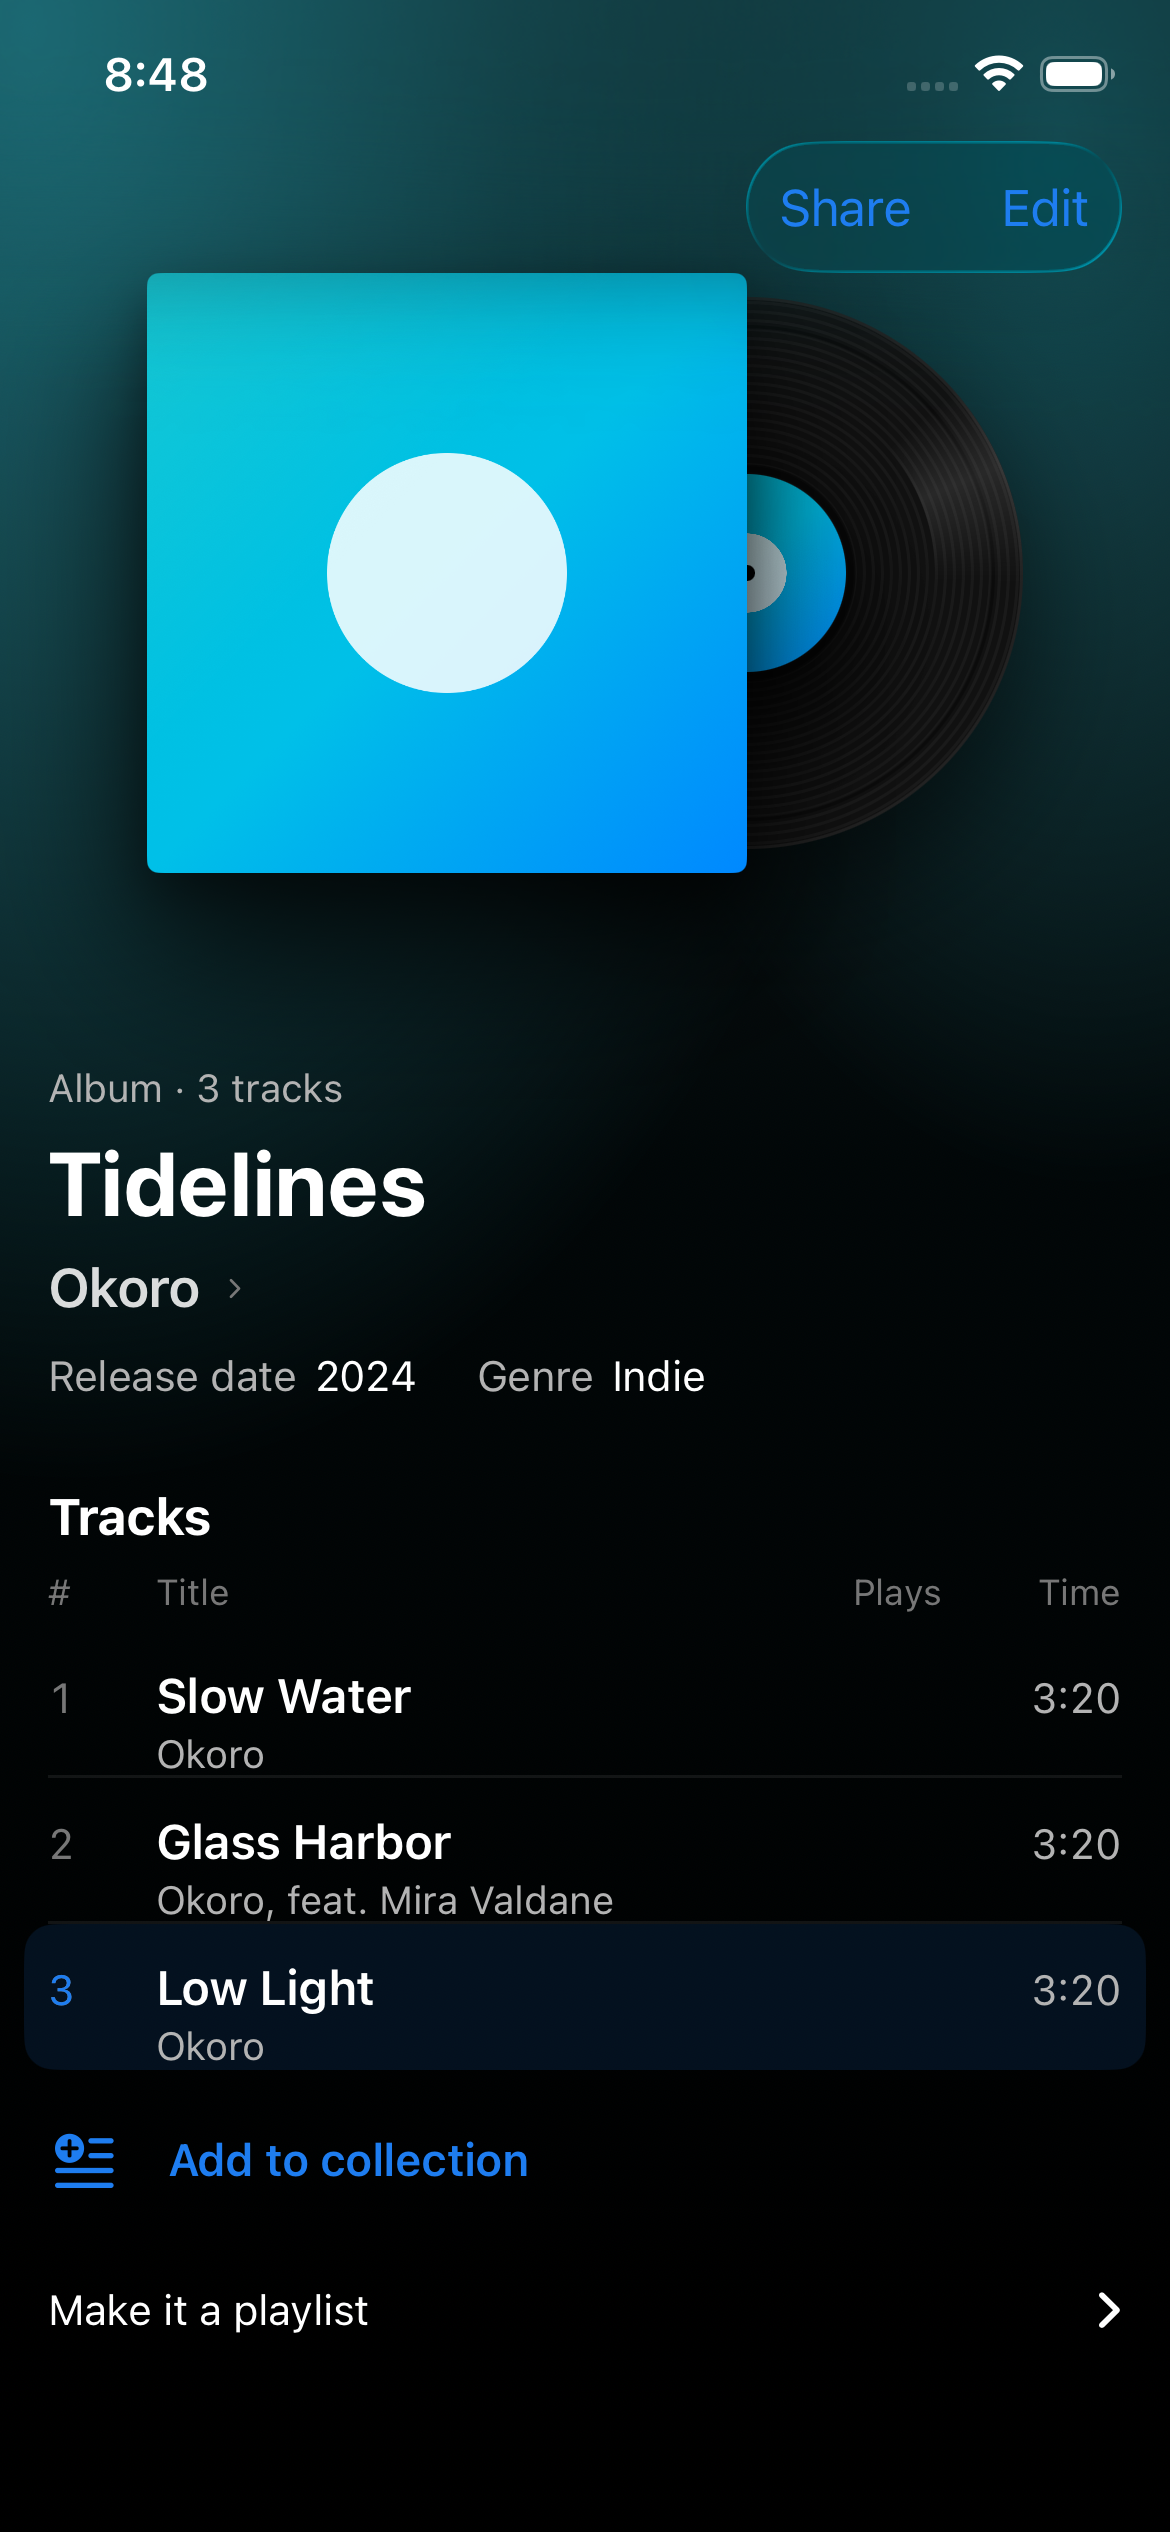
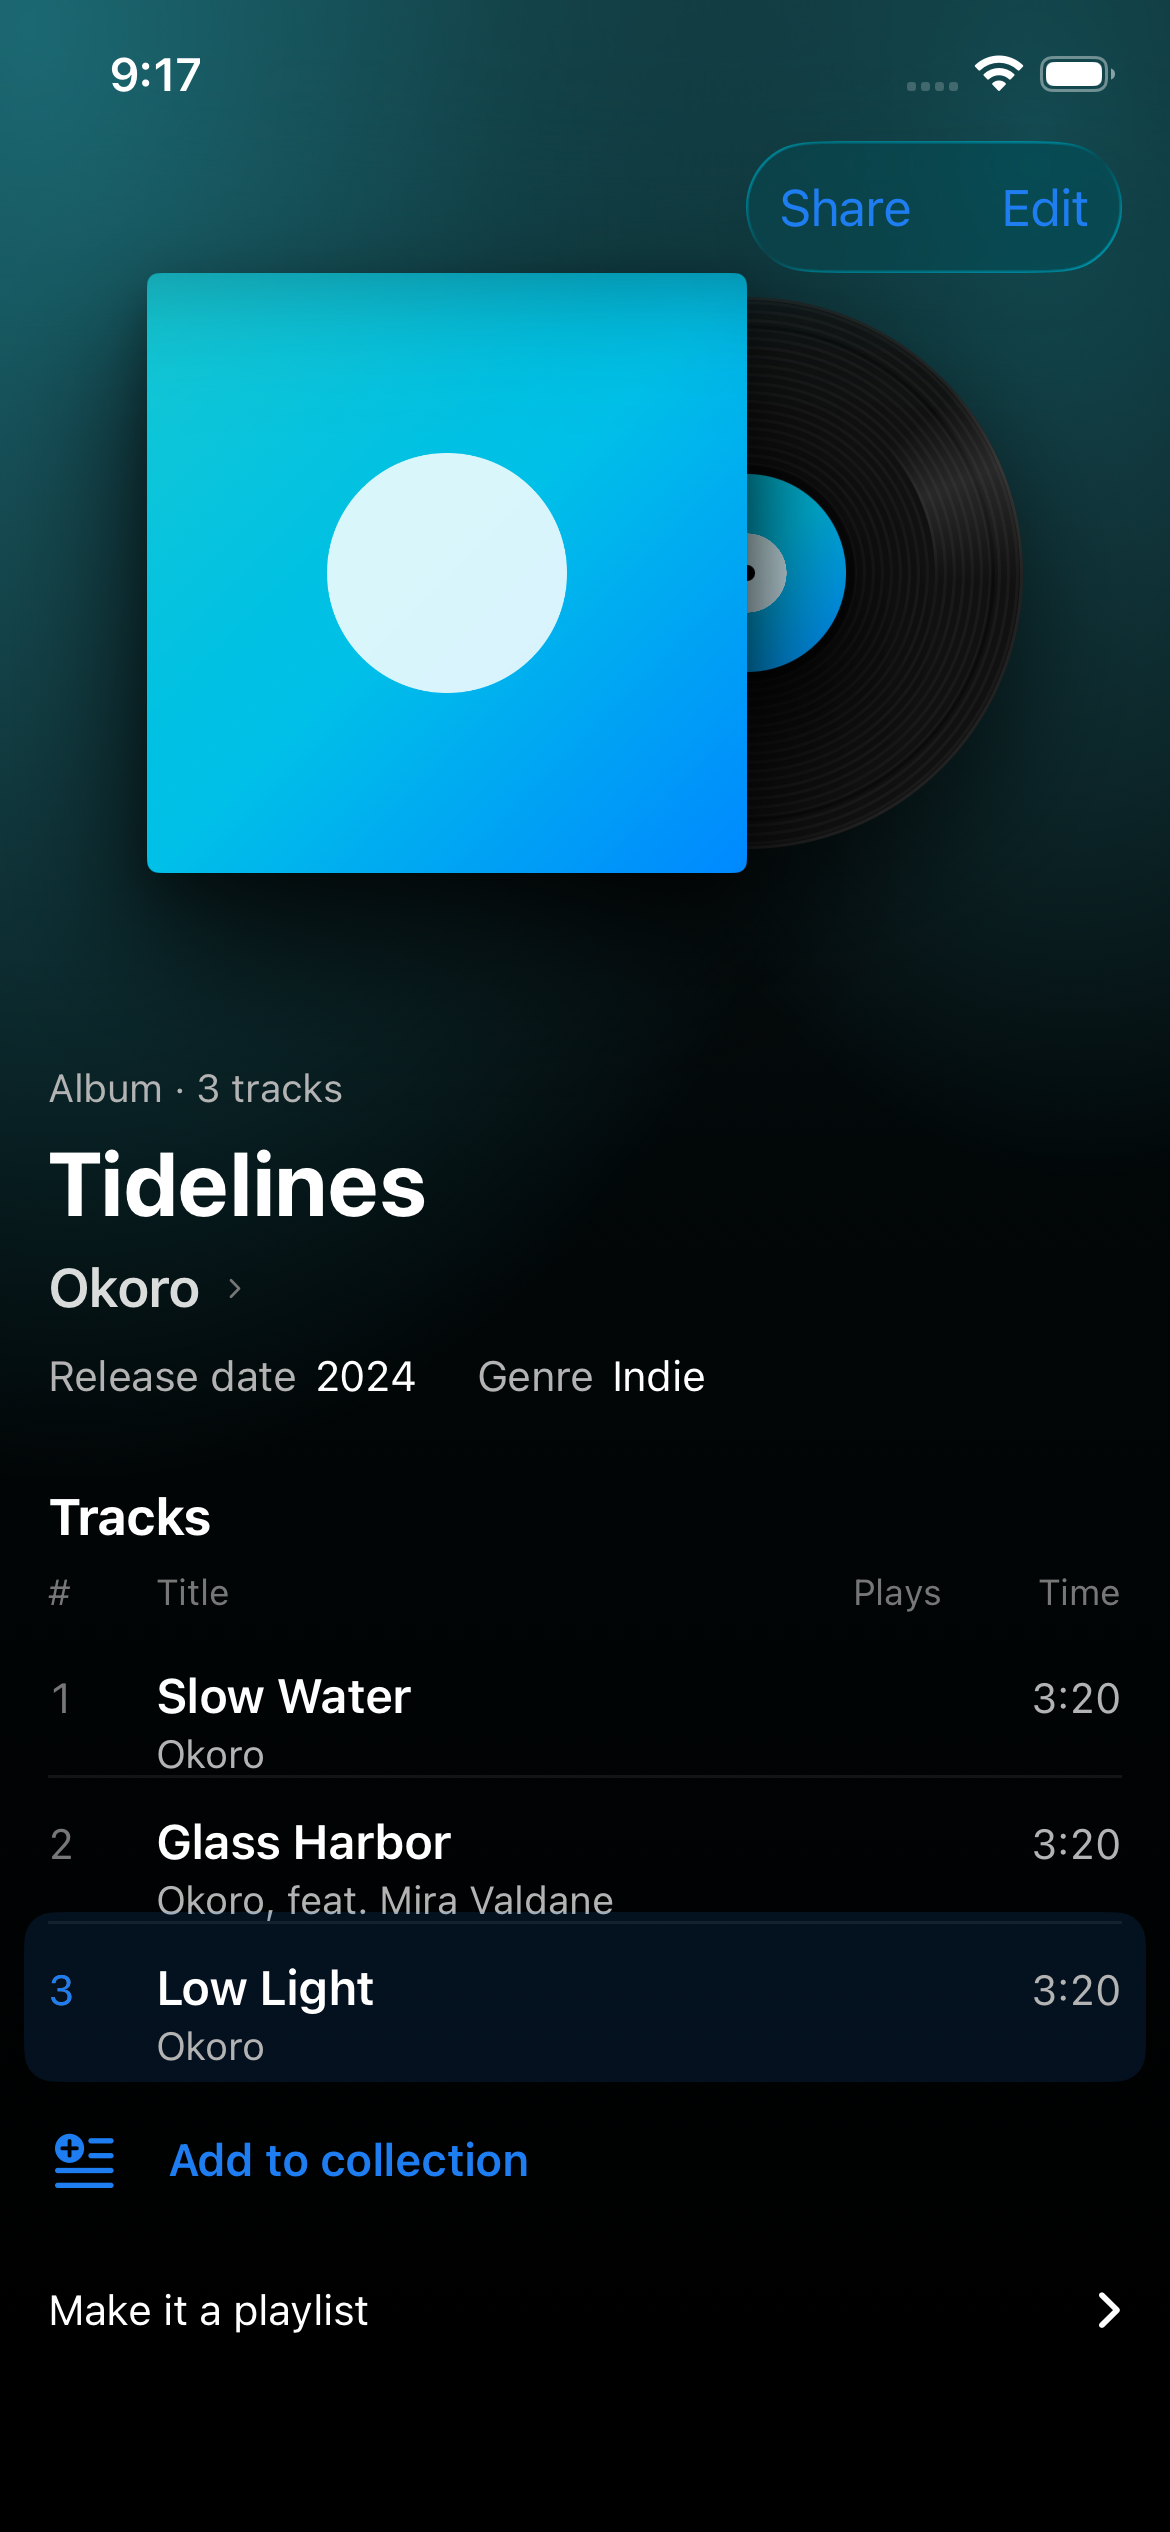
iPhone: track highlight review fixes: cancel-safe, symmetric wash, long and large-text gallery cases, real tests (#362)
Claude-Session: https://claude.ai/code/session_012sA8wJjj2BFG5nWg5W6h5h

diff --git a/apps/ios/Locally/Views/Components/ComponentGallery.swift b/apps/ios/Locally/Views/Components/ComponentGallery.swift
@@ -35,7 +35,7 @@ struct ComponentGallery: View {
         "share-sheet", "share-sheet-link", "share-sheet-result", "share-sheet-signed-out", "share-sheet-large-text",
         "devices-tray-friends", "devices-tray-friends-large-text", "shared-by-you", "shared-by-you-large-text", "release-share-blocked",
         // #362: a release opened from one of its tracks, the row mid-highlight.
-        "release-track-highlight", "stats-open-track",
+        "release-track-highlight", "release-track-highlight-long", "release-track-highlight-ax", "release-track-plain-long", "stats-open-track",
         // #350: collections in List view over seeded sample collections.
         "collections-library", "collections-screen", "collections-queue", "collections-edit", "collections-empty", "collections-queue-ax", "collections-add", "collections-playing", "collections-add-failed", "collections-wont-play", "collections-playlist-guide", "collections-none-here",
         // #352: the record player on the Collections screen, over seeded collections and a player on fakes.
@@ -59,7 +59,7 @@ struct ComponentGallery: View {
 
     /// The #160 screens draw their own backdrop.
     private var drawsOwnBackdrop: Bool {
-        name.hasPrefix("collections-") || name.hasPrefix("player-") || name.hasPrefix("stats-") || name.hasPrefix("icons-") || name.hasPrefix("devices-") || name.hasPrefix("share") || ["studio-backdrop", "settings-signed-in", "settings-signed-out", "settings-code-sent", "settings-scrolled", "root-banner", "release-tracks", "controls", "paywall", "onboarding", "library-empty", "crop-sheet", "release-featuring-view", "release-featuring-edit", "featuring-fields-ax", "artists-view", "artist-page", "artist-page-featured", "artist-page-bottom", "library-sort-menu", "release-links", "release-date-edit", "release-date-view", "release-date-sheet", "release-date-invalid", "release-date-xxxl", "release-date-ax", "release-date-ax5", "release-date-narrow", "release-date-save", "release-share-blocked", "release-track-highlight"].contains(name)
+        name.hasPrefix("collections-") || name.hasPrefix("player-") || name.hasPrefix("stats-") || name.hasPrefix("icons-") || name.hasPrefix("devices-") || name.hasPrefix("share") || ["studio-backdrop", "settings-signed-in", "settings-signed-out", "settings-code-sent", "settings-scrolled", "root-banner", "release-tracks", "controls", "paywall", "onboarding", "library-empty", "crop-sheet", "release-featuring-view", "release-featuring-edit", "featuring-fields-ax", "artists-view", "artist-page", "artist-page-featured", "artist-page-bottom", "library-sort-menu", "release-links", "release-date-edit", "release-date-view", "release-date-sheet", "release-date-invalid", "release-date-xxxl", "release-date-ax", "release-date-ax5", "release-date-narrow", "release-date-save", "release-share-blocked", "release-track-highlight", "release-track-highlight-long", "release-track-highlight-ax", "release-track-plain-long"].contains(name)
     }
 
     var body: some View {
@@ -330,6 +330,12 @@ struct ComponentGallery: View {
             IconsGallery.devices(pending: 0, open: true, friends: 3).dynamicTypeSize(.accessibility3)
         case "release-track-highlight":
             IconsGallery.highlightedRelease()
+        case "release-track-highlight-long":
+            IconsGallery.highlightedRelease(tracks: 12, track: 9)
+        case "release-track-highlight-ax":
+            IconsGallery.highlightedRelease(tracks: 12, track: 9).dynamicTypeSize(.accessibility3)
+        case "release-track-plain-long":
+            IconsGallery.highlightedRelease(tracks: 12, track: nil)
         case "stats-open-track":
             IconsGallery.environment(StatsGallery.page(.week), IconsGallery.container())
         case "release-share-blocked":
@@ -1141,12 +1147,18 @@ extension IconsGallery {
         environment(NavigationStack { ArtistPageView(route: ArtistRoute(key: ArtistNames.artistKey(name))) }, artistsContainer())
     }
 
-    /// Tidelines opened from its third track (#362), the wash held at full strength.
-    static func highlightedRelease() -> some View {
+    /// Tidelines opened from one of its tracks (#362), the wash held at full strength. `tracks` pads it to a
+    /// long release so the scroll shows; a nil `track` is a plain push with no highlight.
+    static func highlightedRelease(tracks: Int? = nil, track: Int? = 2) -> some View {
         let container = artistsContainer()
-        let release = artistsLibrarySeed.releases.first { $0.title == "Tidelines" } ?? StatsGallery.releases[0]
-        let track = release.tracks.indices.contains(2) ? release.tracks[2] : release.tracks[0]
-        return environment(NavigationStack { ReleaseDetailView(release: release, highlightTrackID: track.id, holdsHighlight: true) }, container)
+        var release = artistsLibrarySeed.releases.first { $0.title == "Tidelines" } ?? StatsGallery.releases[0]
+        if let tracks, release.tracks.count < tracks {
+            for n in release.tracks.count..<tracks {
+                release.tracks.append(Track(id: UUID(), title: "Interlude \(n + 1)", trackNumber: n + 1, filePath: "x\(n).mp3", originalName: "x\(n).mp3", durationSec: 200))
+            }
+        }
+        let id = track.map { release.tracks.indices.contains($0) ? release.tracks[$0].id : release.tracks[0].id }
+        return environment(NavigationStack { ReleaseDetailView(release: release, highlightTrackID: id, holdsHighlight: true) }, container)
     }
 
     /// The album Tidelines in view mode: a track featuring Mira Valdane, linked.

diff --git a/apps/ios/LocallyUITests/TrackHighlightUITests.swift b/apps/ios/LocallyUITests/TrackHighlightUITests.swift
@@ -1,20 +1,53 @@
 import XCTest
 
-/// Opening a Stats track lands on its release with that track's row on screen (#362). Runs over the
-/// component gallery's sample plays (DEBUG builds), so it needs no account, files or network.
+/// Opening a release from a track lands on that row, washed once; any other push shows no wash (#362).
+/// Runs over the component gallery's sample releases (DEBUG builds), so it needs no account, files or network.
 final class TrackHighlightUITests: XCTestCase {
-    func testStatsTrackOpensItsReleaseWithThatRowOnScreen() {
+    private func launch(_ name: String) -> XCUIApplication {
         let app = XCUIApplication()
-        app.launchArguments = ["-componentGallery", "stats-open-track"]
+        app.launchArguments = ["-componentGallery", name]
         app.launch()
+        return app
+    }
+
+    private func row(_ number: Int, in app: XCUIApplication) -> XCUIElement {
+        app.descendants(matching: .any)["track-row-\(number)"].firstMatch
+    }
+
+    func testStatsTrackOpensItsReleaseWithThatRowOnScreen() {
+        let app = launch("stats-open-track")
         // The fan's lead tile is the track "Night Bus to Nowhere", the first track of its release.
-        let row = app.buttons.matching(NSPredicate(format: "label CONTAINS %@", "Night Bus to Nowhere")).firstMatch
-        XCTAssertTrue(row.waitForExistence(timeout: 15), "no Stats row")
-        row.tap()
-        let trackRow = app.descendants(matching: .any)["track-row-1"].firstMatch
+        let tile = app.buttons.matching(NSPredicate(format: "label CONTAINS %@", "Night Bus to Nowhere")).firstMatch
+        XCTAssertTrue(tile.waitForExistence(timeout: 15), "no Stats row")
+        tile.tap()
+        let trackRow = row(1, in: app)
         // The fan lifts a sleeve on the first tap and opens it on the second.
-        if !trackRow.waitForExistence(timeout: 4) { row.tap() }
+        if !trackRow.waitForExistence(timeout: 4) { tile.tap() }
         XCTAssertTrue(trackRow.waitForExistence(timeout: 10), "release page shows no track-row-1")
         XCTAssertTrue(trackRow.isHittable, "track-row-1 is not on screen")
+    }
+
+    /// The same 12-track release twice: pushed plainly, track 10 is below the fold and unwashed; opened
+    /// from track 10, the page scrolls it into view and marks it highlighted.
+    func testAPlainPushLeavesADeepTrackOffScreenAndUnwashed() {
+        let app = launch("release-track-plain-long")
+        let deep = row(10, in: app)
+        // The list is lazy: a row below the fold is not in the tree at all, or is there but off screen.
+        XCTAssertTrue(row(1, in: app).waitForExistence(timeout: 15), "release page shows no track-row-1")
+        sleep(2)
+        XCTAssertFalse(deep.exists && deep.isHittable, "track-row-10 should be below the fold")
+        XCTAssertFalse(app.descendants(matching: .any).matching(NSPredicate(format: "value == %@", "highlighted")).firstMatch.exists)
+    }
+
+    func testOpeningFromADeepTrackScrollsItIntoViewAndHighlightsIt() {
+        let app = launch("release-track-highlight-long")
+        let deep = row(10, in: app)
+        XCTAssertTrue(deep.waitForExistence(timeout: 15), "no track-row-10")
+        let hittable = NSPredicate(format: "isHittable == true")
+        expectation(for: hittable, evaluatedWith: deep)
+        waitForExpectations(timeout: 10)
+        let washed = NSPredicate(format: "value == %@", "highlighted")
+        expectation(for: washed, evaluatedWith: deep)
+        waitForExpectations(timeout: 10)
     }
 }

diff --git a/apps/ios/Locally/Views/Library/ReleaseDetailView.swift b/apps/ios/Locally/Views/Library/ReleaseDetailView.swift
@@ -12,6 +12,7 @@ struct ReleaseDetailView: View {
     @Environment(\.playback) private var playback
     @Environment(\.dismiss) private var dismiss
     @Environment(\.accessibilityReduceMotion) private var reduceMotion
+    @Environment(\.dynamicTypeSize) private var dynamicTypeSize
     @ScaledMetric(relativeTo: .headline) private var tracksHeadingSize: CGFloat = 17
 
     let release: Release
@@ -23,6 +24,8 @@ struct ReleaseDetailView: View {
     var holdsHighlight = false
     @State private var highlight: Double = 0
     @State private var didHighlight = false
+    /// How far the wash reaches past the row's text; less at large text so it stays inside the screen edge.
+    private var washBleed: CGFloat { dynamicTypeSize.isAccessibilitySize ? 4 : min(8, Theme.Immersive.recordRowSideInset / 2) }
     @AccessibilityFocusState private var focusedTrackID: UUID?
 
     @State private var model: ReleaseDetailViewModel?
@@ -374,10 +377,12 @@ struct ReleaseDetailView: View {
                     RoundedRectangle(cornerRadius: Theme.Track.highlightCornerRadius)
                         .fill(Theme.accent.opacity(Theme.Track.highlightOpacity))
                         .opacity(highlight)
-                        .padding(.horizontal, -8)
+                        .padding(.horizontal, -washBleed)
+                        .padding(.vertical, -4)
                 }
             }
             .id(row.id)
+            .accessibilityValue(row.id == highlightTrackID && highlight > 0 ? Copy.Detail.trackHighlighted : "")
             .accessibilityFocused($focusedTrackID, equals: row.id)
             .overlay(alignment: .bottom) {
                 if index != last { Rectangle().fill(Theme.Track.separatorTint).frame(height: 1) }
@@ -431,9 +436,9 @@ struct ReleaseDetailView: View {
     /// fades it out. Opacity only; Reduce Motion jumps the scroll. Plays once per push.
     private func highlightTrack(in model: ReleaseDetailViewModel, proxy: ScrollViewProxy) async {
         guard let id = highlightTrackID, !didHighlight, !model.isEditing, model.trackRows.contains(where: { $0.id == id }) else { return }
-        didHighlight = true
         try? await Task.sleep(for: .seconds(Theme.Track.highlightDelay))
         guard !Task.isCancelled else { return }
+        didHighlight = true
         if reduceMotion {
             proxy.scrollTo(id, anchor: .center)
         } else {
@@ -443,6 +448,7 @@ struct ReleaseDetailView: View {
         withAnimation(.timingCurve(0.16, 1, 0.3, 1, duration: Theme.Track.highlightFadeIn)) { highlight = 1 }
         guard !holdsHighlight else { return }
         try? await Task.sleep(for: .seconds(Theme.Track.highlightFadeIn + Theme.Track.highlightHold))
+        guard !Task.isCancelled else { return }
         withAnimation(.timingCurve(0.16, 1, 0.3, 1, duration: Theme.Track.highlightFadeOut)) { highlight = 0 }
     }
 

diff --git a/apps/ios/LocallyTests/PlaybackServiceTests.swift b/apps/ios/LocallyTests/PlaybackServiceTests.swift
@@ -470,6 +470,37 @@ struct PlaybackServiceTests {
         #expect(counting.openReleaseRequest == single.id)
     }
 
+    @Test func openingAReleaseContextAsksForTheTrackThatIsPlaying() async {
+        let r = release()
+        service.play(release: r, startingAt: id(r, 2))
+        await settle()
+        service.openContext()
+        #expect(service.openReleaseRequest == r.id)
+        #expect(service.openReleaseTrackRequest == id(r, 2))
+    }
+
+    @Test func aPlayingItemFromAnotherReleaseGivesNoTrackRequest() async {
+        let r = release()
+        let other = release()
+        let items = [QueueItem(releaseId: other.id, trackId: id(other, 1))]
+        service.play(items: items, releases: [other], context: .release(r.id))
+        await settle()
+        service.openContext()
+        #expect(service.openReleaseRequest == r.id)
+        #expect(service.openReleaseTrackRequest == nil)
+    }
+
+    @Test func aCollectionContextLeavesTheTrackRequestNil() async {
+        let a = release()
+        let b = release()
+        let items = [QueueItem(releaseId: a.id, trackId: id(a, 1)), QueueItem(releaseId: b.id, trackId: id(b, 2))]
+        service.play(items: items, releases: [a, b], context: QueueContext(kind: .collection, id: UUID()))
+        await settle()
+        service.openContext()
+        #expect(service.openReleaseRequest == nil)
+        #expect(service.openReleaseTrackRequest == nil)
+    }
+
     @Test func startingAtAnIndexPlaysThatItemAndKeepsTheOrderAroundIt() async {
         let r = release()
         let gone = QueueItem(releaseId: UUID(), trackId: UUID())

diff --git a/apps/ios/Locally/Resources/Copy.swift b/apps/ios/Locally/Resources/Copy.swift
@@ -444,6 +444,8 @@ enum Copy {
         /// Hint under the Tracks header when there are 2+ tracks, since the
         /// compact layout dropped the Edit-mode toolbar button.
         static let reorderHint = "Hold and drag a track to reorder."
+        /// Spoken value of the track row a release was opened from, while its wash shows (#362).
+        static let trackHighlighted = "highlighted"
         /// Under a track row: its total Spotify plays across devices.
         static func playCount(_ count: Int) -> String {
             count == 1 ? "1 play" : "\(count) plays"
